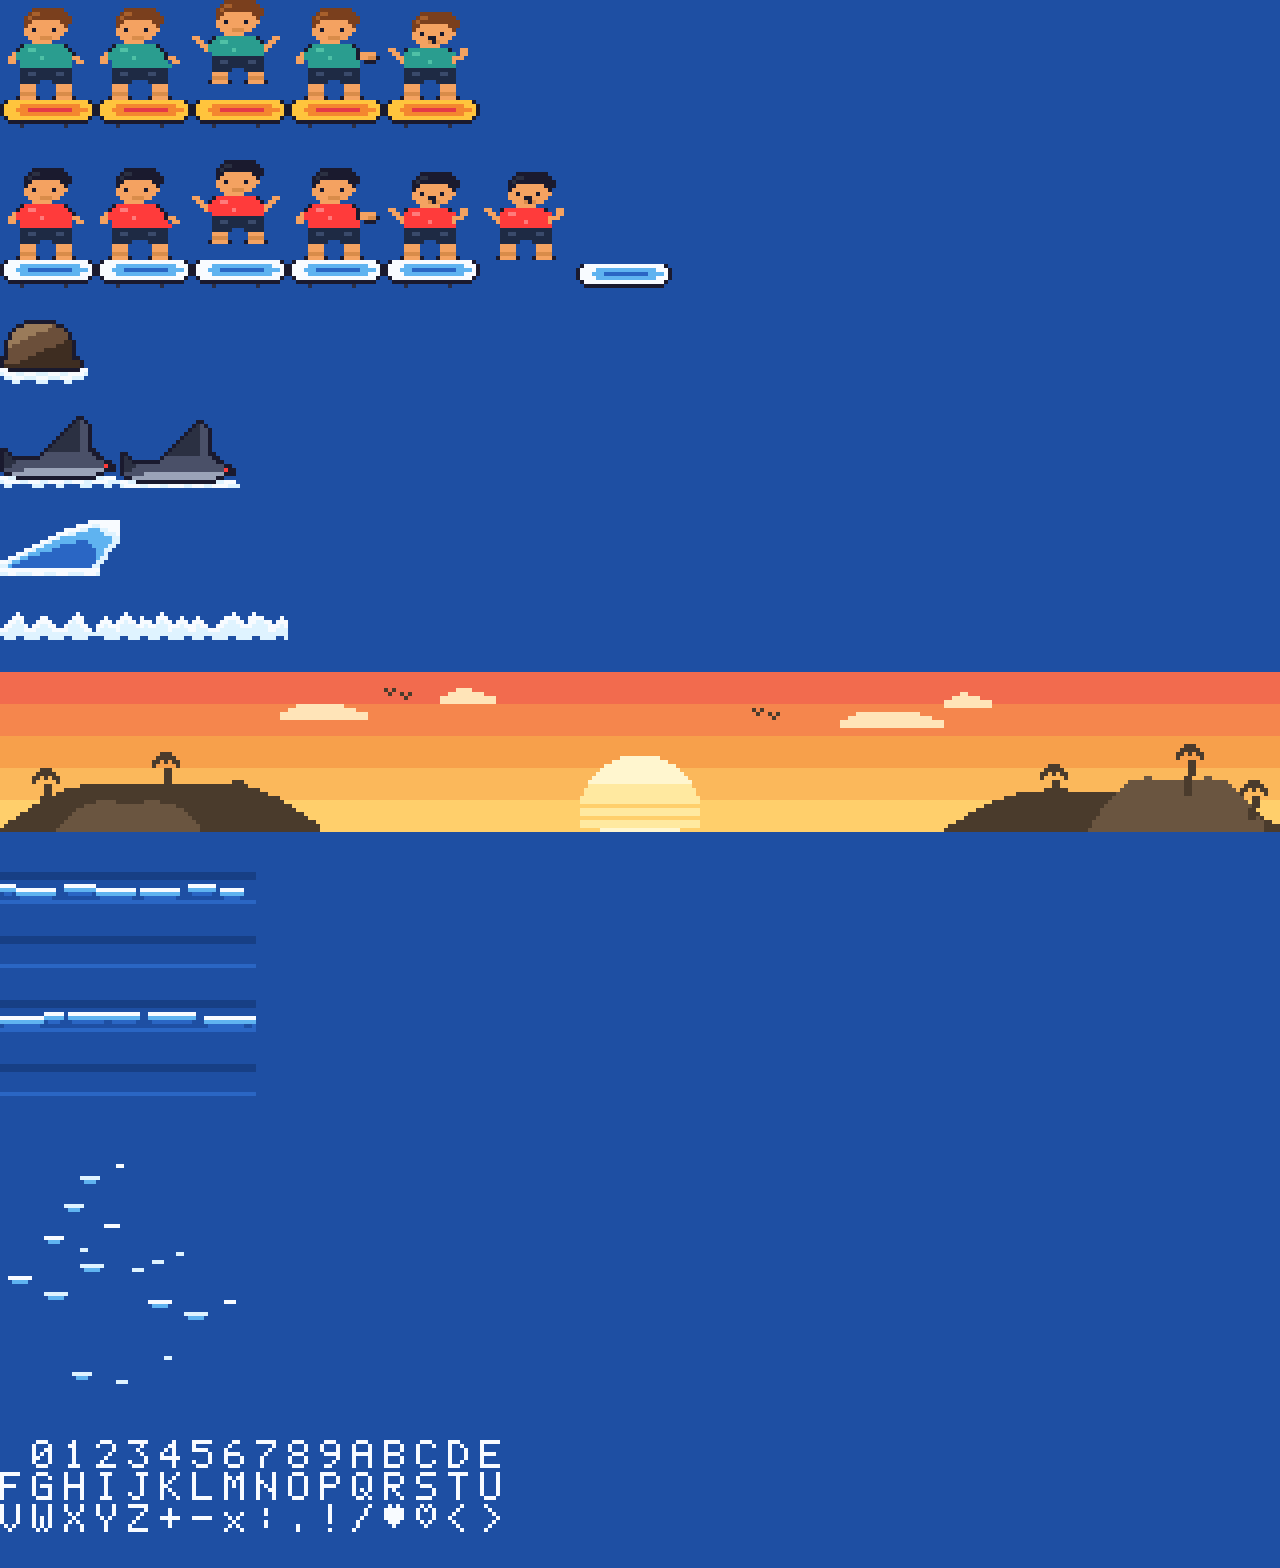
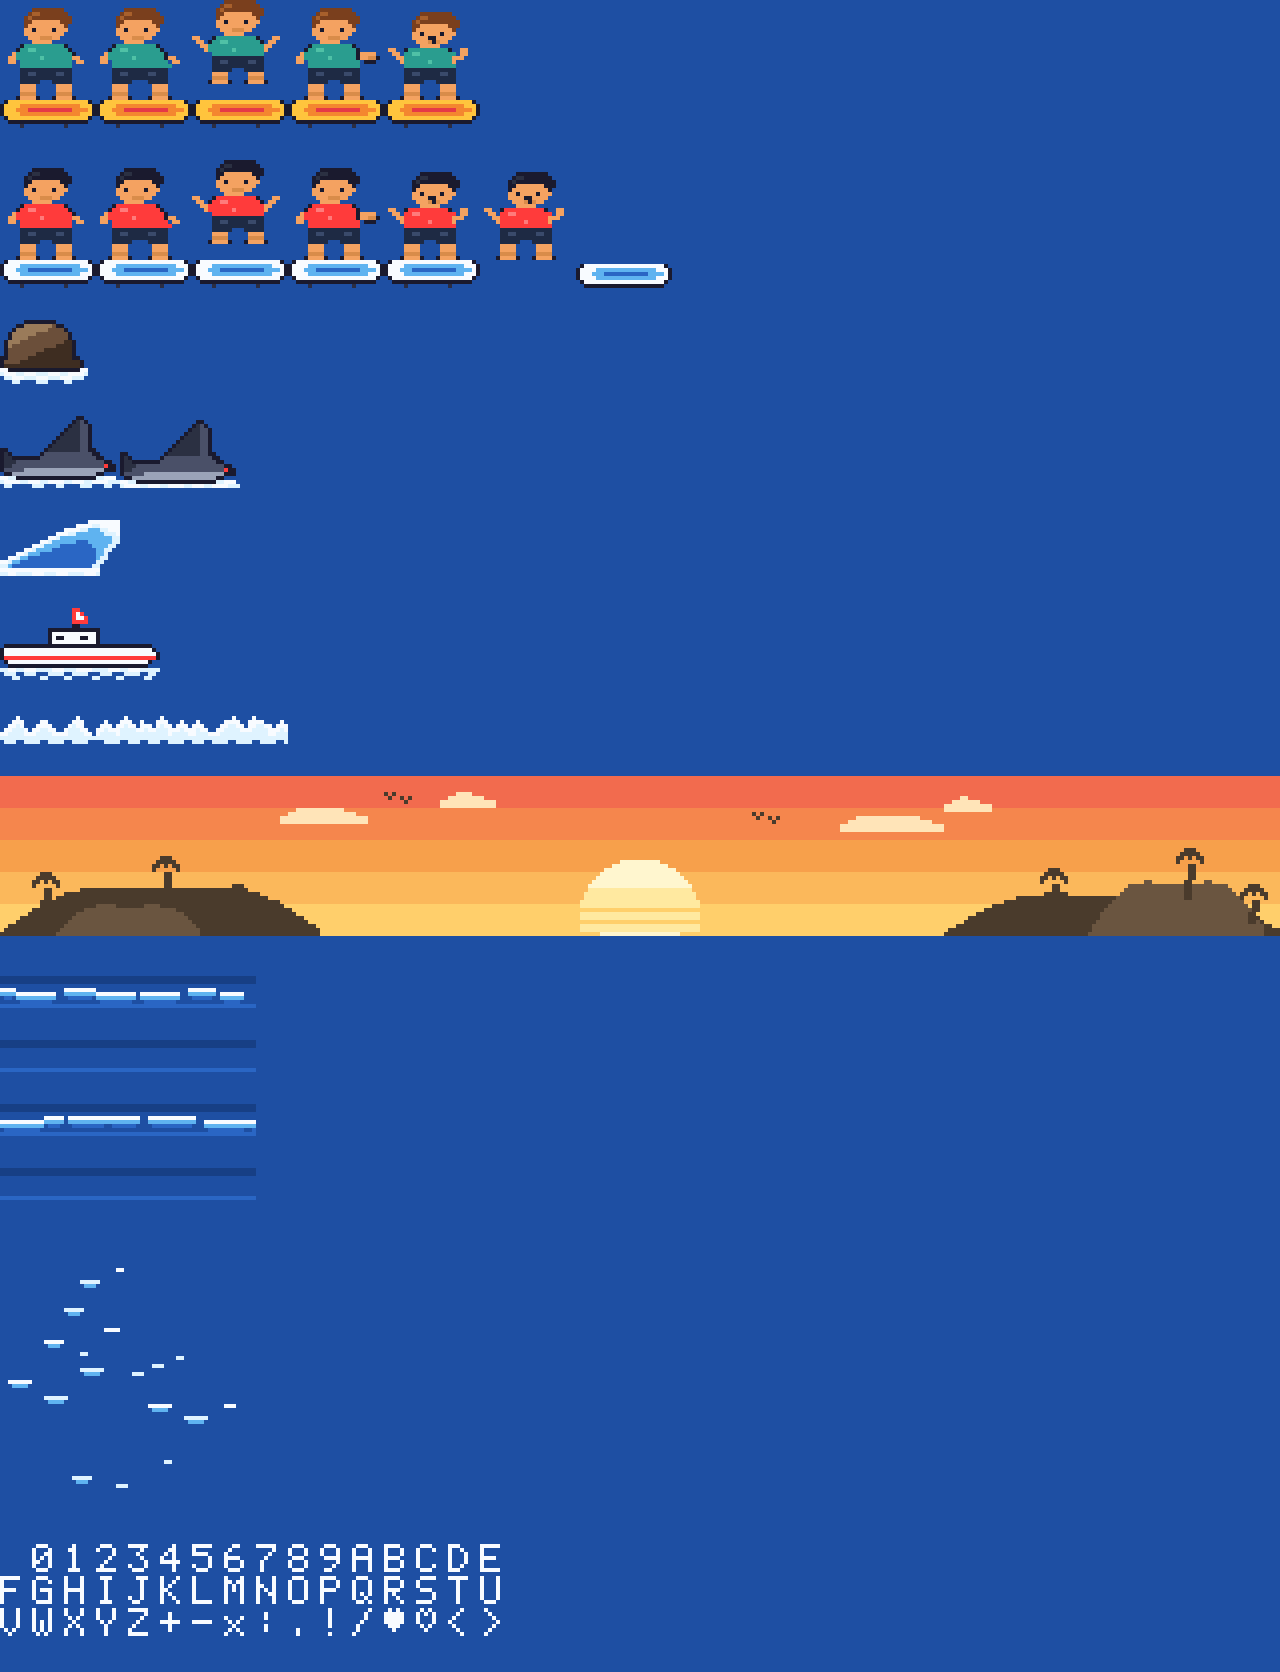
feat: pause popover, lifeguard boat, lighter Normal, fix menu tap race
- Game over MAIN MENU no longer starts a run: the title ignores start
  input for 500 ms after opening and clears the tap that brought it there
- Pause button top right (Esc or P) opens a PauseScene popover with
  RESUME / RESTART / MAIN MENU; HUD shifted left to make room; the tap that
  resumes cannot become a jump
- Normal spawn gaps 1.18x (about 15% fewer hazards); Easy rescaled to stay
  sparser than Normal
- Lifeguard boat obstacle crosses the field sideways from either edge
  (from 15 s, every 520-900 world px), 1 damage, not jumpable, knocks
  rivals out; new 40x18 pixel sprite, debugSpawn('boat')
- README and playtesting docs updated

Claude-Session: https://claude.ai/code/session_01XpZgbUKG4zdaFpkMpfaemp

diff --git a/src/systems/ObstacleSpawner.ts b/src/systems/ObstacleSpawner.ts
@@ -6,8 +6,10 @@ import { RivalSurfer } from '../entities/RivalSurfer';
 import { Rock } from '../entities/Rock';
 import { Shark } from '../entities/Shark';
 import { WaveRamp } from '../entities/WaveRamp';
+import { LifeguardBoat } from '../entities/LifeguardBoat';
 import { difficultySpec, type DifficultySpec } from '../game/difficulty';
 import { DIFFICULTY } from '../game/gameplay';
+import { GAME_HEIGHT } from '../game/constants';
 import { HORIZON_Y } from './OceanScroller';
 
 export const SPAWN = {
@@ -24,6 +26,17 @@ export const SPAWN = {
   spawnY: HORIZON_Y + 6,
   /** Horizontal padding so obstacles never hug the very edge. */
   edgePadding: 10,
+} as const;
+
+export const BOAT_SPAWN = {
+  /** Boats only start crossing after this long. */
+  afterSeconds: 15,
+  /** World pixels travelled between boats (random within this range). */
+  minGap: 520,
+  maxGap: 900,
+  /** Vertical band (fractions of the field height) a boat may cross in: mid-field, above the surfer's lane. */
+  minYFraction: 0.3,
+  maxYFraction: 0.55,
 } as const;
 
 export const RAMP_SPAWN = {
@@ -56,6 +69,8 @@ export class ObstacleSpawner {
   private nextRampGap: number = RAMP_SPAWN.minGap;
   private lastRampX = Number.NaN;
   private rampCount = 0;
+  private travelledSinceBoat = 0;
+  private nextBoatGap: number = BOAT_SPAWN.minGap;
   private readonly mode: DifficultySpec;
 
   constructor(
@@ -66,6 +81,7 @@ export class ObstacleSpawner {
     this.obstacles = scene.add.group();
     this.nextGap = this.rollGap(0);
     this.nextRampGap = Phaser.Math.Between(RAMP_SPAWN.minGap, RAMP_SPAWN.maxGap);
+    this.nextBoatGap = Phaser.Math.Between(BOAT_SPAWN.minGap, BOAT_SPAWN.maxGap);
   }
 
   /** Ramps spawned so far this run (debug readout). */
@@ -109,6 +125,7 @@ export class ObstacleSpawner {
     const travelled = gameSpeed * dt;
     this.travelledSinceSpawn += travelled;
     this.travelledSinceRamp += travelled;
+    this.travelledSinceBoat += travelled;
 
     for (const obstacle of this.active) {
       obstacle.update(delta, gameSpeed, ctx);
@@ -122,6 +139,12 @@ export class ObstacleSpawner {
       this.nextRampGap = Phaser.Math.Between(RAMP_SPAWN.minGap, RAMP_SPAWN.maxGap);
       // Give the player a clear row after the ramp before the next hazard.
       this.travelledSinceSpawn = Math.min(this.travelledSinceSpawn, this.nextGap - RAMP_SPAWN.hazardHoldOff);
+    }
+
+    if (elapsedSeconds >= BOAT_SPAWN.afterSeconds && this.travelledSinceBoat >= this.nextBoatGap * this.mode.spawnGapScale) {
+      this.spawnBoat();
+      this.travelledSinceBoat = 0;
+      this.nextBoatGap = Phaser.Math.Between(BOAT_SPAWN.minGap, BOAT_SPAWN.maxGap);
     }
 
     if (this.travelledSinceSpawn >= this.nextGap && this.hazardCount < SPAWN.maxActive) {
@@ -152,13 +175,22 @@ export class ObstacleSpawner {
         obstacle = new WaveRamp(this.scene, x, y);
         this.rampCount++;
         break;
+      case 'boat':
+        return this.spawnBoat();
     }
     this.obstacles.add(obstacle);
     return obstacle;
   }
 
   private get hazardCount(): number {
-    return this.active.filter((o) => o.kind !== 'ramp').length;
+    return this.active.filter((o) => o.kind !== 'ramp' && o.kind !== 'boat').length;
+  }
+
+  private spawnBoat(): LifeguardBoat {
+    const y = Phaser.Math.Between(Math.round(GAME_HEIGHT * BOAT_SPAWN.minYFraction), Math.round(GAME_HEIGHT * BOAT_SPAWN.maxYFraction));
+    const boat = new LifeguardBoat(this.scene, y, Math.random() < 0.5 ? 1 : -1);
+    this.obstacles.add(boat);
+    return boat;
   }
 
   private spawnRamp(): void {

diff --git a/src/scenes/PauseScene.ts b/src/scenes/PauseScene.ts
@@ -1,0 +1,65 @@
+import Phaser from 'phaser';
+
+import { GAME_HEIGHT, GAME_WIDTH, SceneKeys } from '../game/constants';
+import { consumeTap } from '../input/TouchControls';
+import { pixelText } from '../ui/PixelText';
+
+/**
+ * Pause overlay, launched on top of a paused GameScene.
+ * RESUME continues, RESTART starts a fresh run, MAIN MENU goes to the title.
+ * Keyboard: Esc or P resumes, R restarts, M for the menu.
+ */
+export class PauseScene extends Phaser.Scene {
+  constructor() {
+    super(SceneKeys.Pause);
+  }
+
+  create(): void {
+    const cx = GAME_WIDTH / 2;
+    const cy = GAME_HEIGHT / 2;
+
+    this.add.rectangle(0, 0, GAME_WIDTH, GAME_HEIGHT, 0x1a0b2e, 0.7).setOrigin(0);
+    this.add.rectangle(cx, cy, Math.min(GAME_WIDTH - 20, 150), 96, 0x1a0b2e, 0.95).setStrokeStyle(2, 0x7ff6ff);
+
+    pixelText(this, cx, cy - 36, 'PAUSED', 0xffd166, 2).setOrigin(0.5);
+
+    const option = (y: number, label: string, color: number, action: () => void) => {
+      const text = pixelText(this, cx, y, label, color).setOrigin(0.5);
+      text.setInteractive({ useHandCursor: true, hitArea: new Phaser.Geom.Rectangle(-10, -5, text.width + 20, text.height + 10), hitAreaCallback: Phaser.Geom.Rectangle.Contains });
+      text.on('pointerdown', (_p: Phaser.Input.Pointer, _x: number, _y: number, e: Phaser.Types.Input.EventData) => {
+        e.stopPropagation();
+        action();
+      });
+      return text;
+    };
+    option(cy - 8, 'RESUME', 0xffffff, () => this.resume());
+    option(cy + 10, 'RESTART', 0x7ff6ff, () => this.restart());
+    option(cy + 28, 'MAIN MENU', 0xbbbbbb, () => this.mainMenu());
+
+    const keyboard = this.input.keyboard;
+    keyboard?.on('keydown-ESC', () => this.resume());
+    keyboard?.on('keydown-P', () => this.resume());
+    keyboard?.on('keydown-R', () => this.restart());
+    keyboard?.on('keydown-M', () => this.mainMenu());
+  }
+
+  private resume(): void {
+    consumeTap(); // the tap that chose RESUME must not become a jump
+    this.scene.stop();
+    this.scene.resume(SceneKeys.Game);
+  }
+
+  private restart(): void {
+    consumeTap();
+    this.scene.stop(SceneKeys.Game);
+    this.scene.stop();
+    this.scene.start(SceneKeys.Game);
+  }
+
+  private mainMenu(): void {
+    consumeTap();
+    this.scene.stop(SceneKeys.Game);
+    this.scene.stop();
+    this.scene.start(SceneKeys.Title);
+  }
+}

diff --git a/src/scenes/GameScene.ts b/src/scenes/GameScene.ts
@@ -3,10 +3,11 @@ import Phaser from 'phaser';
 import type { Obstacle } from '../entities/Obstacle';
 import { PLAYER_START, Player } from '../entities/Player';
 import { RivalSurfer } from '../entities/RivalSurfer';
-import { SceneKeys } from '../game/constants';
+import { GAME_WIDTH, SceneKeys } from '../game/constants';
 import { difficultySpec, getDifficulty } from '../game/difficulty';
 import { GAMEPLAY } from '../game/gameplay';
 import { Controls } from '../input/Controls';
+import { consumeTap } from '../input/TouchControls';
 import { Combat, type KnockoutEvent } from '../systems/Combat';
 import { Combo } from '../systems/Combo';
 import { GameSpeed } from '../systems/GameSpeed';
@@ -80,6 +81,34 @@ export class GameScene extends Phaser.Scene {
 
     // Desktop: a mouse click on the water also jumps (touch taps come through TouchControls).
     if (!this.controls.isTouch) this.input.on('pointerdown', () => this.controls.requestJump());
+
+    this.createPauseButton();
+    keyboard?.on('keydown-ESC', () => this.pause());
+    keyboard?.on('keydown-P', () => this.pause());
+    this.events.on(Phaser.Scenes.Events.RESUME, () => consumeTap());
+  }
+
+  /** Two-bar pause icon in the top-right corner of the HUD. */
+  private createPauseButton(): void {
+    const x = GAME_WIDTH - 9;
+    const y = 9;
+    const icon = this.add.graphics().setDepth(1000);
+    icon.fillStyle(0x1a0b2e, 0.85);
+    icon.fillRect(x - 7, y - 7, 14, 14);
+    icon.fillStyle(0xffd166, 1);
+    icon.fillRect(x - 5, y - 5, 3, 10);
+    icon.fillRect(x + 2, y - 5, 3, 10);
+    const hit = this.add.zone(x, y, 18, 18).setDepth(1001).setInteractive({ useHandCursor: true });
+    hit.on('pointerdown', (_p: Phaser.Input.Pointer, _x: number, _y: number, e: Phaser.Types.Input.EventData) => {
+      e.stopPropagation();
+      this.pause();
+    });
+  }
+
+  private pause(): void {
+    if (this.gameOver || this.scene.isPaused()) return;
+    this.scene.launch(SceneKeys.Pause);
+    this.scene.pause();
   }
 
   override update(_time: number, delta: number): void {

diff --git a/src/scenes/TitleScene.ts b/src/scenes/TitleScene.ts
@@ -11,8 +11,12 @@ import { pixelText } from '../ui/PixelText';
  * Title screen. Uses the concept artwork as a temporary background (the logo
  * is part of the artwork) with a pulsing prompt. Space or Enter starts play.
  */
+/** Ignore start input this long after the title opens, so the tap/click that brought us here can't start a game. */
+const START_GRACE_MS = 500;
+
 export class TitleScene extends Phaser.Scene {
   private swallowNextTap = false;
+  private acceptStartAt = 0;
 
   constructor() {
     super(SceneKeys.Title);
@@ -20,6 +24,8 @@ export class TitleScene extends Phaser.Scene {
 
   create(): void {
     this.swallowNextTap = false;
+    this.acceptStartAt = this.time.now + START_GRACE_MS;
+    consumeTap(); // drop any tap left over from the screen that sent us here
     // Sky and water behind the artwork so the portrait field has no black bars.
     this.add.image(GAME_WIDTH / 2, 0, AssetKeys.Sky).setOrigin(0.5, 0);
     this.add.tileSprite(0, 40, GAME_WIDTH, GAME_HEIGHT - 40, AssetKeys.Water).setOrigin(0);
@@ -94,12 +100,16 @@ export class TitleScene extends Phaser.Scene {
 
     // A click on the canvas also starts. On touch, a tap starts (polled in update) and
     // we try to go fullscreen in landscape.
-    if (!touchState.enabled) this.input.once('pointerdown', () => this.startGame());
+    if (!touchState.enabled) {
+      this.input.on('pointerdown', () => {
+        if (this.time.now >= this.acceptStartAt) this.startGame();
+      });
+    }
   }
 
   override update(): void {
     if (touchState.enabled && consumeTap()) {
-      if (this.swallowNextTap) {
+      if (this.swallowNextTap || this.time.now < this.acceptStartAt) {
         this.swallowNextTap = false;
         return;
       }

diff --git a/src/entities/LifeguardBoat.ts b/src/entities/LifeguardBoat.ts
@@ -1,0 +1,47 @@
+import Phaser from 'phaser';
+
+import { AssetKeys, GAME_WIDTH } from '../game/constants';
+import { Obstacle } from './Obstacle';
+
+export const BOAT = {
+  damage: 1,
+  /** A boat is far too big to hop. */
+  jumpable: false,
+  /** Rivals shoved into it wipe out. */
+  knocksOutRivals: true,
+  /** It holds its line across the wave, drifting only slowly towards the player. */
+  approachFactor: 0.15,
+  /** Crossing speed, pixels per second. */
+  speed: 48,
+  /** How far past the edge it starts and ends. */
+  margin: 28,
+} as const;
+
+/**
+ * A lifeguard boat crossing the field horizontally, in either direction.
+ * Spawned off one edge and removed once it has crossed past the other.
+ */
+export class LifeguardBoat extends Obstacle {
+  private readonly direction: 1 | -1;
+
+  constructor(scene: Phaser.Scene, y: number, direction: 1 | -1) {
+    const x = direction > 0 ? -BOAT.margin : GAME_WIDTH + BOAT.margin;
+    super(scene, x, y, {
+      kind: 'boat',
+      texture: AssetKeys.Boat,
+      approachFactor: BOAT.approachFactor,
+      damage: BOAT.damage,
+      jumpable: BOAT.jumpable,
+      knocksOutRivals: BOAT.knocksOutRivals,
+    });
+    this.direction = direction;
+    this.setFlipX(direction < 0);
+  }
+
+  protected override onUpdate(dt: number): void {
+    this.x += this.direction * BOAT.speed * dt;
+    if ((this.direction > 0 && this.x > GAME_WIDTH + BOAT.margin) || (this.direction < 0 && this.x < -BOAT.margin)) {
+      this.destroy();
+    }
+  }
+}

diff --git a/src/game/difficulty.ts b/src/game/difficulty.ts
@@ -16,10 +16,10 @@ export interface DifficultySpec {
   startHealth: number;
 }
 
-/** Normal is the tuning the game shipped with; the others scale it. */
+/** Normal is the baseline (spawn gaps 1.18x the raw SPAWN values: ~15% fewer hazards than the first playtest build); the others scale it. */
 export const DIFFICULTY_MODES: Record<DifficultyMode, DifficultySpec> = {
-  easy: { label: 'EASY', speedScale: 0.8, rampScale: 0.6, spawnGapScale: 1.35, sharkAfterSeconds: 40, sharkChance: 0.12, rampAfterSeconds: 10, startHealth: 4 },
-  normal: { label: 'NORMAL', speedScale: 1, rampScale: 1, spawnGapScale: 1, sharkAfterSeconds: 20, sharkChance: 0.2, rampAfterSeconds: 12, startHealth: 3 },
+  easy: { label: 'EASY', speedScale: 0.8, rampScale: 0.6, spawnGapScale: 1.55, sharkAfterSeconds: 40, sharkChance: 0.12, rampAfterSeconds: 10, startHealth: 4 },
+  normal: { label: 'NORMAL', speedScale: 1, rampScale: 1, spawnGapScale: 1.18, sharkAfterSeconds: 20, sharkChance: 0.2, rampAfterSeconds: 12, startHealth: 3 },
   insanity: { label: 'INSANITY', speedScale: 1.3, rampScale: 1.8, spawnGapScale: 0.65, sharkAfterSeconds: 5, sharkChance: 0.35, rampAfterSeconds: 8, startHealth: 3 },
 };
 

diff --git a/src/ui/Hud.ts b/src/ui/Hud.ts
@@ -31,11 +31,11 @@ export class Hud {
     pixelText(scene, 4, 3, 'HEALTH', LABEL).setDepth(1000);
     this.health = pixelText(scene, 4, 13, '', HEART).setDepth(1000);
 
-    pixelText(scene, GAME_WIDTH - 4, 3, 'SCORE', LABEL).setOrigin(1, 0).setDepth(1000);
-    this.score = pixelText(scene, GAME_WIDTH - 4, 13, '000000', VALUE).setOrigin(1, 0).setDepth(1000);
+    pixelText(scene, GAME_WIDTH - 20, 3, 'SCORE', LABEL).setOrigin(1, 0).setDepth(1000);
+    this.score = pixelText(scene, GAME_WIDTH - 20, 13, '000000', VALUE).setOrigin(1, 0).setDepth(1000);
 
-    pixelText(scene, GAME_WIDTH - 68, 3, 'DIST', LABEL).setOrigin(1, 0).setDepth(1000);
-    this.distance = pixelText(scene, GAME_WIDTH - 68, 13, '00000', VALUE).setOrigin(1, 0).setDepth(1000);
+    pixelText(scene, GAME_WIDTH - 80, 3, 'DIST', LABEL).setOrigin(1, 0).setDepth(1000);
+    this.distance = pixelText(scene, GAME_WIDTH - 80, 13, '00000', VALUE).setOrigin(1, 0).setDepth(1000);
 
     this.combo = pixelText(scene, GAME_WIDTH / 2, 24, '', COMBO).setOrigin(0.5, 0).setDepth(1000).setVisible(false);
   }

diff --git a/src/game/config.ts b/src/game/config.ts
@@ -3,6 +3,7 @@ import Phaser from 'phaser';
 import { BootScene } from '../scenes/BootScene';
 import { GameOverScene } from '../scenes/GameOverScene';
 import { GameScene } from '../scenes/GameScene';
+import { PauseScene } from '../scenes/PauseScene';
 import { TitleScene } from '../scenes/TitleScene';
 import { GAME_HEIGHT, GAME_WIDTH } from './constants';
 
@@ -38,5 +39,5 @@ export const gameConfig: Phaser.Types.Core.GameConfig = {
   },
 
   // The first scene in this list starts automatically.
-  scene: [BootScene, TitleScene, GameScene, GameOverScene],
+  scene: [BootScene, TitleScene, GameScene, GameOverScene, PauseScene],
 };

diff --git a/src/scenes/BootScene.ts b/src/scenes/BootScene.ts
@@ -24,6 +24,7 @@ export class BootScene extends Phaser.Scene {
     this.load.spritesheet(AssetKeys.Spray, `${sprites}/spray.png`, { frameWidth: 24, frameHeight: 8 });
     this.load.image(AssetKeys.Rock, `${sprites}/rock.png`);
     this.load.image(AssetKeys.Ramp, `${sprites}/ramp.png`);
+    this.load.image(AssetKeys.Boat, `${sprites}/boat.png`);
     this.load.image(AssetKeys.Sky, `${sprites}/sky.png`);
     this.load.image(AssetKeys.Water, `${sprites}/water.png`);
     this.load.image(AssetKeys.Foam, `${sprites}/foam.png`);

diff --git a/src/game/constants.ts b/src/game/constants.ts
@@ -22,6 +22,7 @@ export const SceneKeys = {
   Title: 'TitleScene',
   Game: 'GameScene',
   GameOver: 'GameOverScene',
+  Pause: 'PauseScene',
 } as const;
 
 /** Keys for assets loaded from public/assets by BootScene. */
@@ -32,6 +33,7 @@ export const AssetKeys = {
   Rock: 'rock',
   Shark: 'shark',
   Ramp: 'ramp',
+  Boat: 'boat',
   Spray: 'spray',
   Sky: 'sky',
   Water: 'water',

diff --git a/src/entities/Obstacle.ts b/src/entities/Obstacle.ts
@@ -9,7 +9,7 @@ const HITBOX_INSET = 0.2;
 /** Once an obstacle is this far below the screen it is destroyed. */
 const OFFSCREEN_MARGIN = 32;
 
-export type HazardKind = 'rock' | 'rival' | 'shark' | 'ramp';
+export type HazardKind = 'rock' | 'rival' | 'shark' | 'ramp' | 'boat';
 
 /** Per-frame world information hazards may react to. */
 export interface HazardContext {

diff --git a/src/scenes/GameOverScene.ts b/src/scenes/GameOverScene.ts
@@ -76,6 +76,7 @@ export class GameOverScene extends Phaser.Scene {
           event.stopPropagation();
           void pointer;
           this.titleChosen = true;
+          consumeTap();
           this.scene.start(SceneKeys.Title);
         });
         if (!touchState.enabled) this.input.once('pointerdown', () => this.scene.start(SceneKeys.Game));
